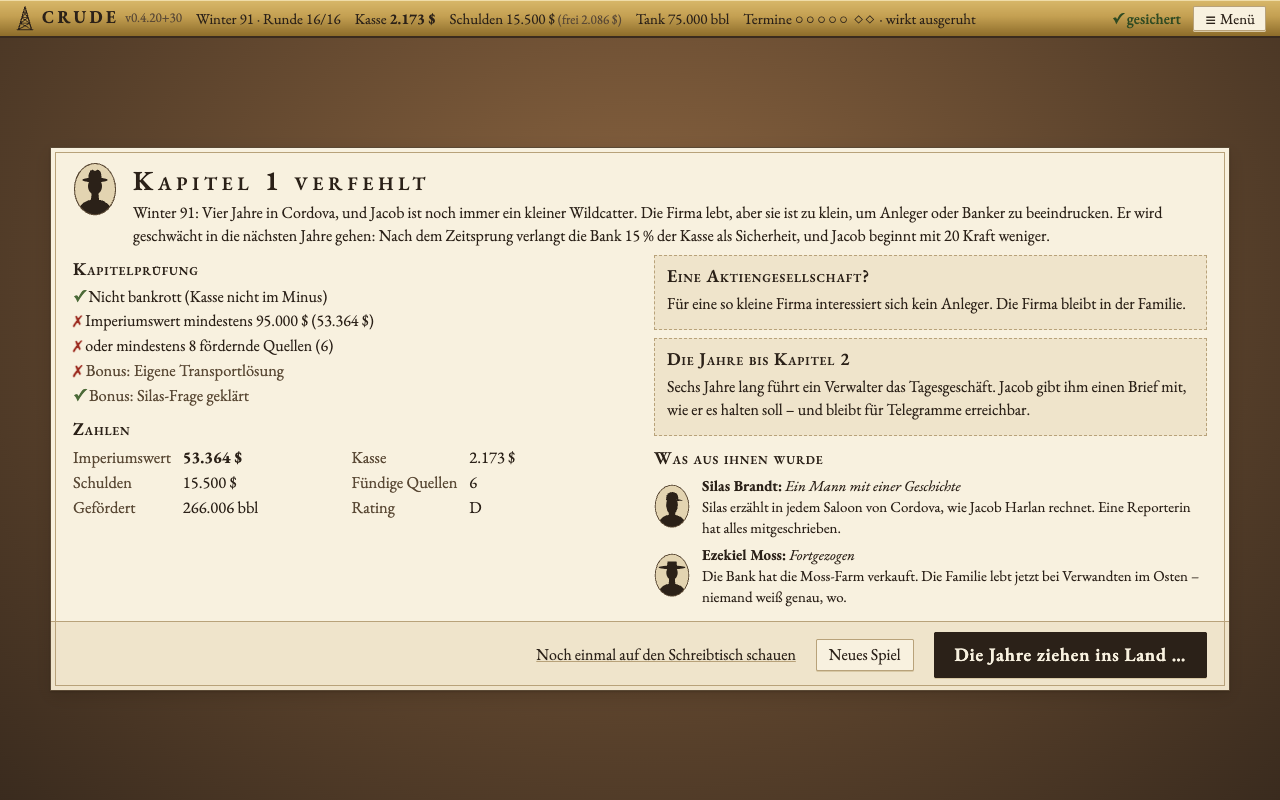
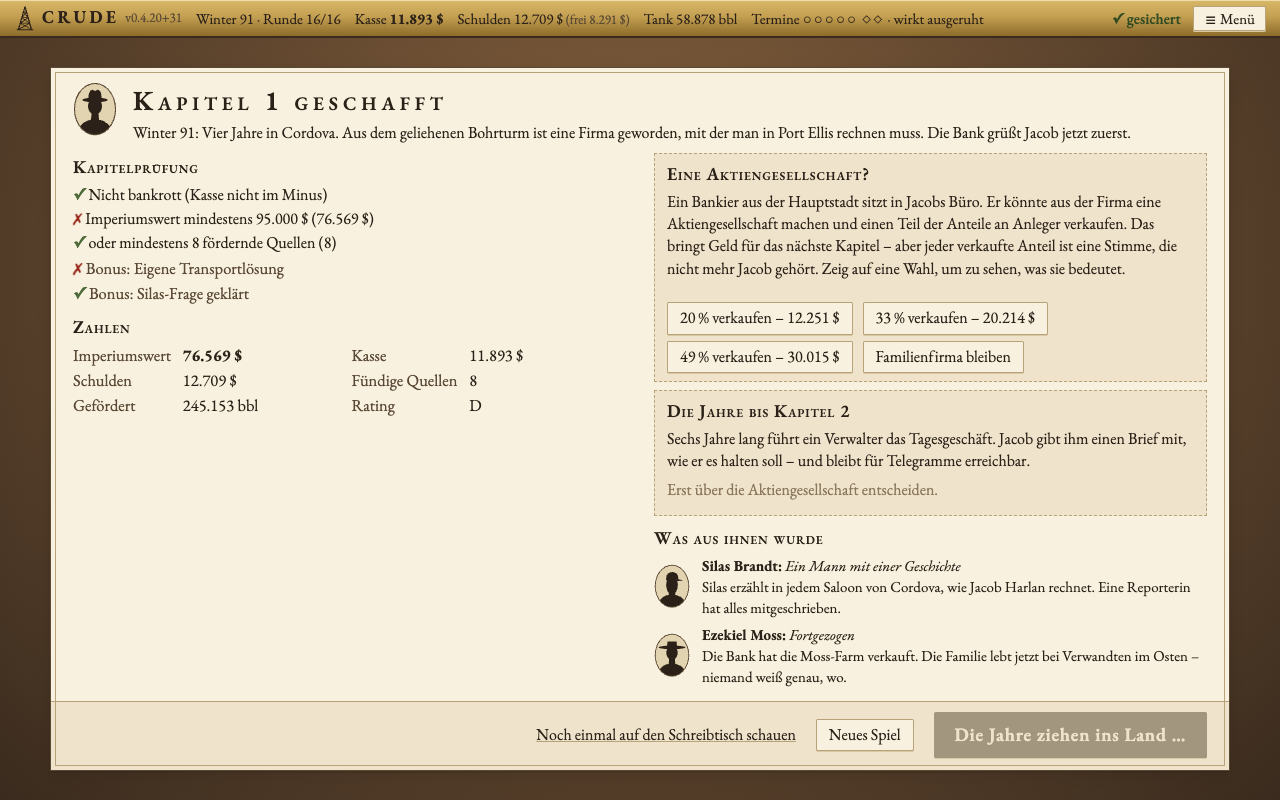
Kapitelende scrollt nicht mehr: Börsengang-Folgen ersetzen beim Zeigen den Einleitungstext
Vorher standen alle vier Erklärungen untereinander (Inhalt 1.128 von 662 px). Neues Bild 13b mit gezeigter Wahl.

diff --git a/src/ui/ChapterEndScreen.tsx b/src/ui/ChapterEndScreen.tsx
@@ -11,7 +11,7 @@
 // 4.19: Kapitel 3 „Der Konzernherr“ – Prüfung (Marke in Regionen oder Marktanteil, Rating), „Was aus ihnen
 // wurde“ (Daniel, Thomas, Ruth, Mr. Vale) und das Ende des Early-Access-Umfangs („Kapitel 4 folgt“).
 
-import { useEffect, useRef } from 'react';
+import { useEffect, useRef, useState } from 'react';
 import { arcSummaries } from '../sim/arcs';
 import { canGoPublic, chapter2Check, chapter3Check, chapterBonuses, chapterCheck, chapterResult, fillText, ipoConsequenceText, ipoProceeds, type Chapter2EndingId } from '../sim/chapter';
 import { chapterOf } from '../sim/chapterOf';
@@ -86,6 +86,7 @@ export function ChapterEndScreen({
   const pruefung = chapterCheck(game, balance);
   const boni = chapterBonuses(game, chapterContent, arcContent);
   const { goals, bonus, ipo } = chapterContent;
+  const [ipoBlick, setIpoBlick] = useState<number | null>(null);
   return (
     <section ref={ref} className={`gameover kapitelende bogen ${ergebnis ?? ''}`} aria-labelledby="bogen-titel">
       <div className="bogen-inhalt">
@@ -195,20 +196,19 @@ export function ChapterEndScreen({
                 <h3>{fillText(ipo.title, {})}</h3>
                 {game.ipo === null && canGoPublic(game, balance) ? (
                   <>
-                    <p>{fillText(ipo.text, {})}</p>
+                    {/* Die Folgen der Wahl unter Maus/Fokus ersetzen den Einleitungstext – alle vier untereinander sprengten den Bildschirm. */}
+                    <p className={ipoBlick === null ? 'ipo-text' : 'ipo-text klein'} aria-live="polite">
+                      {ipoBlick === null ? `${fillText(ipo.text, {})} ${fillText(ipo.consequenceHint, {})}` : ipoConsequenceText(game, balance, ipo, ipoBlick)}
+                    </p>
                     <div className="knoepfe">
                       {balance.chapter.ipo.shares.map((share) => (
-                        <div key={share}>
-                          <button onClick={() => onIpo(share)}>
-                            {fillText(ipo.sell, { anteil: prozent(share), preis: money(ipoProceeds(game, balance, share)) })}
-                          </button>
-                          <p className="klein">{ipoConsequenceText(game, balance, ipo, share)}</p>
-                        </div>
+                        <button key={share} onClick={() => onIpo(share)} onMouseEnter={() => setIpoBlick(share)} onFocus={() => setIpoBlick(share)}>
+                          {fillText(ipo.sell, { anteil: prozent(share), preis: money(ipoProceeds(game, balance, share)) })}
+                        </button>
                       ))}
-                      <div>
-                        <button onClick={() => onIpo(0)}>{fillText(ipo.keep, {})}</button>
-                        <p className="klein">{ipoConsequenceText(game, balance, ipo, 0)}</p>
-                      </div>
+                      <button onClick={() => onIpo(0)} onMouseEnter={() => setIpoBlick(0)} onFocus={() => setIpoBlick(0)}>
+                        {fillText(ipo.keep, {})}
+                      </button>
                     </div>
                   </>
                 ) : game.ipo !== null && game.ipo.share > 0 ? (

diff --git a/src/sim/chapter.ts b/src/sim/chapter.ts
@@ -287,6 +287,7 @@ export interface ChapterContent {
     sell: LocalizedText;
     keep: LocalizedText;
     consequence: LocalizedText;
+    consequenceHint: LocalizedText;
     thorneOpen: LocalizedText;
     thorneClosed: LocalizedText;
     keepConsequence: LocalizedText;
@@ -394,6 +395,7 @@ export function parseChapterContent(file: string, text: string): { content: Chap
     sell: sprachtext(i.sell, 'ipo.sell'),
     keep: sprachtext(i.keep, 'ipo.keep'),
     consequence: sprachtext(i.consequence, 'ipo.consequence'),
+    consequenceHint: sprachtext(i.consequenceHint, 'ipo.consequenceHint'),
     thorneOpen: sprachtext(i.thorneOpen, 'ipo.thorneOpen'),
     thorneClosed: sprachtext(i.thorneClosed, 'ipo.thorneClosed'),
     keepConsequence: sprachtext(i.keepConsequence, 'ipo.keepConsequence'),

diff --git a/tools/screenshots.ts b/tools/screenshots.ts
@@ -255,6 +255,8 @@ const bilder: Bild[] = [
   { name: '11-glocke', state: mitte, tasten: ['e'] },
   { name: '12-rundgang', state: start, prefs: { 'crude.rundgang': 'nein' }, warte: 1200 },
   { name: '13-kapitelende', state: kapitel },
+  // 0.4.20+30: Börsengang-Wahl unter dem Fokus – ihre Folgen ersetzen den Einleitungstext.
+  { name: '13b-kapitelende-boersengang', state: kapitel, dann: "document.querySelector('.ipo .knoepfe button')?.dispatchEvent(new MouseEvent('mouseover', { bubbles: true }))", warte: 600 },
   { name: '14-pleite', state: pleite },
   { name: '15-rundenbericht', state: mitte, prefs: { 'crude.zeitung': 'an' }, tasten: ['e', 'Enter'], warte: 1600 },
   // Phase 4 (Integration)

diff --git a/src/ui/style.css b/src/ui/style.css
@@ -249,8 +249,7 @@ details summary { cursor: pointer; color: var(--tinte-weich); }
 .hint { margin: 6px 0 0; font-size: 0.95rem; color: var(--rot); font-style: italic; }
 .kapitelende { margin-bottom: 8px; }
 .knoepfe { display: flex; flex-wrap: wrap; align-items: center; gap: 12px 20px; margin-top: 12px; }
-.ipo .knoepfe > div { flex: 1 1 100%; }
-.ipo .knoepfe .klein { margin: 4px 0 0; }
+.ipo .ipo-text { min-height: 6.6em; }
 a.feedback { color: var(--tinte); }
 a.feedback.kopf { font-size: 13px; font-weight: normal; letter-spacing: normal; color: var(--tinte-blass); }
 a.feedback.gross { font-size: 1.05rem; }
